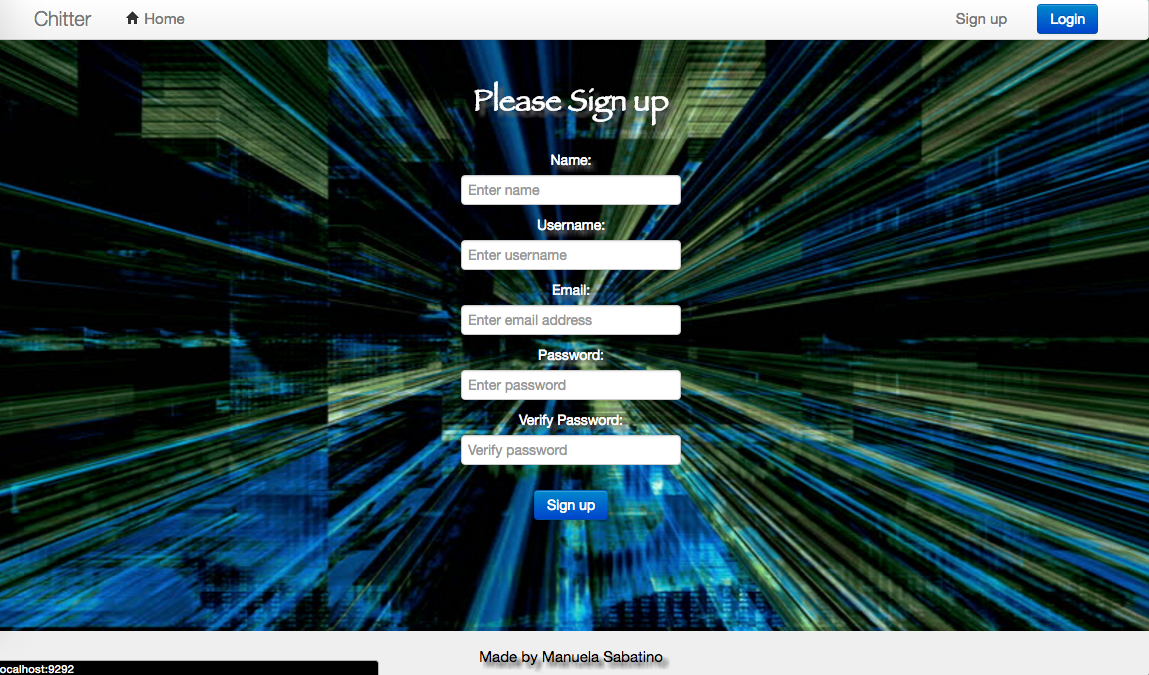
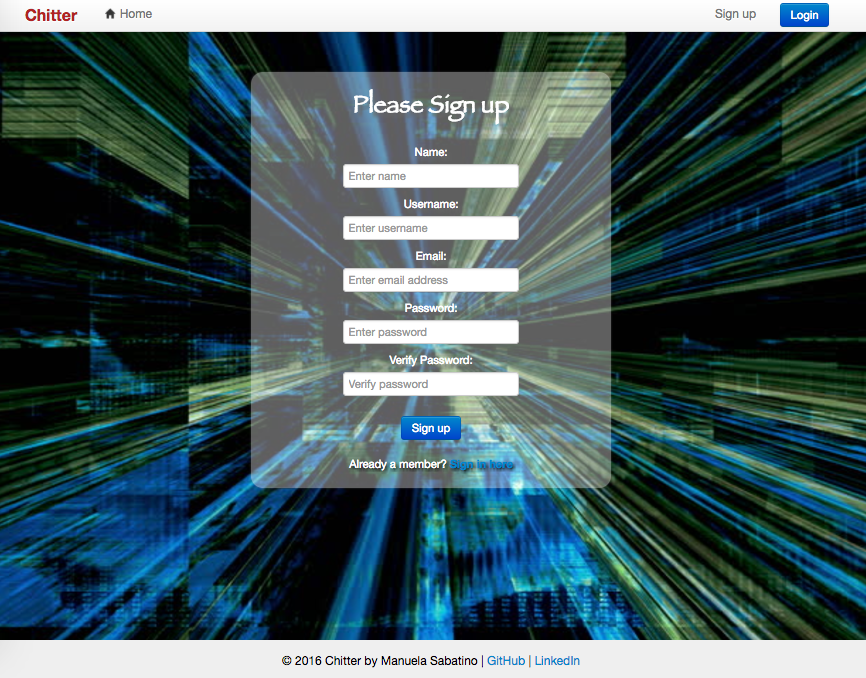
Add some CSS and refractoring

diff --git a/public/css/style.css b/public/css/style.css
@@ -27,7 +27,6 @@ body {
   font-family: "Open Sans", "Helvetica Neue", Helvetica, Arial, sans-serif;
   min-height: 100%;
   position: relative;
-
 }
 
 .navbar {
@@ -112,14 +111,29 @@ label {
 }
 .peeps:before
 {
-content: '\201C ';
+content: '\201C';
+font-size: 30px;
+font-weight: bolder;
 }
 
 .peeps:after
 {
-content: ' \201D';
+content: '\201D';
+font-size: 30px;
+font-weight: bolder;
 }
 
+.login h5{
+  padding-top: 10px;
+  color: #fff;
+  font-weight: normal;
+  text-shadow: 2px 2px 5px #000;
+  text-decoration: none;
+}
+
+.login a:hover{
+  color:#B22222;
+}
 
 .message {
   display: inline-block;
@@ -172,6 +186,7 @@ content: ' \201D';
 }
 
 .post-Signing{
+  margin-top: 50px;
   width:450px;
   height: 100%;
   margin-left:auto;

diff --git a/app/models/user.rb b/app/models/user.rb
@@ -3,11 +3,11 @@ require 'bcrypt'
 class User
   include DataMapper::Resource
 
-  property :id,              Serial
-  property :name,            String
-  property :email,           String, unique: true, format: :email_address, message: 'This email is already taken'
-  property :username,        String, unique: true, message: 'This username is already taken'
-  property :password_digest, Text
+  property :id,                   Serial
+  property :name,                 String
+  property :email,                String, unique: true, format: :email_address, message: 'This email is already taken'
+  property :username,             String, unique: true, message: 'This username is already taken'
+  property :password_digest,      Text
 
   has n, :peeps
 

diff --git a/app/server.rb b/app/server.rb
@@ -17,8 +17,10 @@ require_relative 'datamapper_setup'
 set :public_folder, proc { File.join(root, '..', 'public') }
 
 enable :sessions
+register Sinatra::Flash
+register Sinatra::Partial
+use Rack::MethodOverride
 set :session_secret, 'Super Secret Encrypted Key'
 set :partial_template_engine, :erb
 
-register Sinatra::Flash
-use Rack::MethodOverride
+enable :partial_underscores

diff --git a/spec/features/user_managemen_spec.rb b/spec/features/user_managemen_spec.rb
@@ -58,4 +58,5 @@ feature 'User signs out' do
     expect(page).to have_content('Goodbye!')
     expect(page).not_to have_content('Welcome, bo@bo.com')
   end
+
 end

diff --git a/spec/spec_helper.rb b/spec/spec_helper.rb
@@ -7,7 +7,6 @@ require 'byebug'
 require 'coveralls'
 require 'simplecov'
 
-
 Capybara.app = Sinatra::Application
 
 SimpleCov.formatters = [

diff --git a/spec/features/web_helper.rb b/spec/features/web_helper.rb
@@ -21,4 +21,6 @@ module SessionHelpers
   def logout
     click_button 'Logout'
   end
+
+
 end
